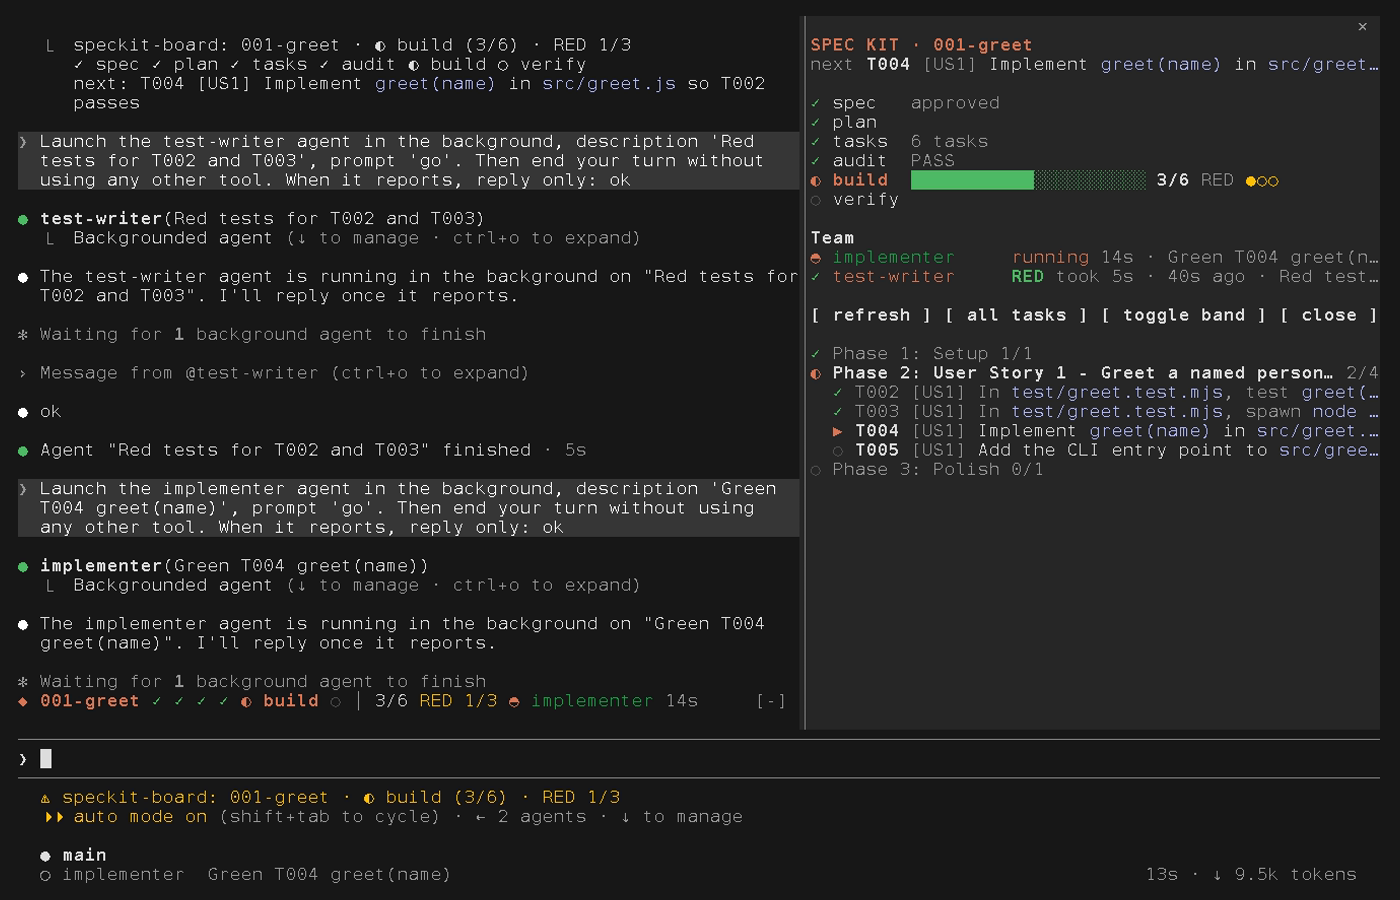
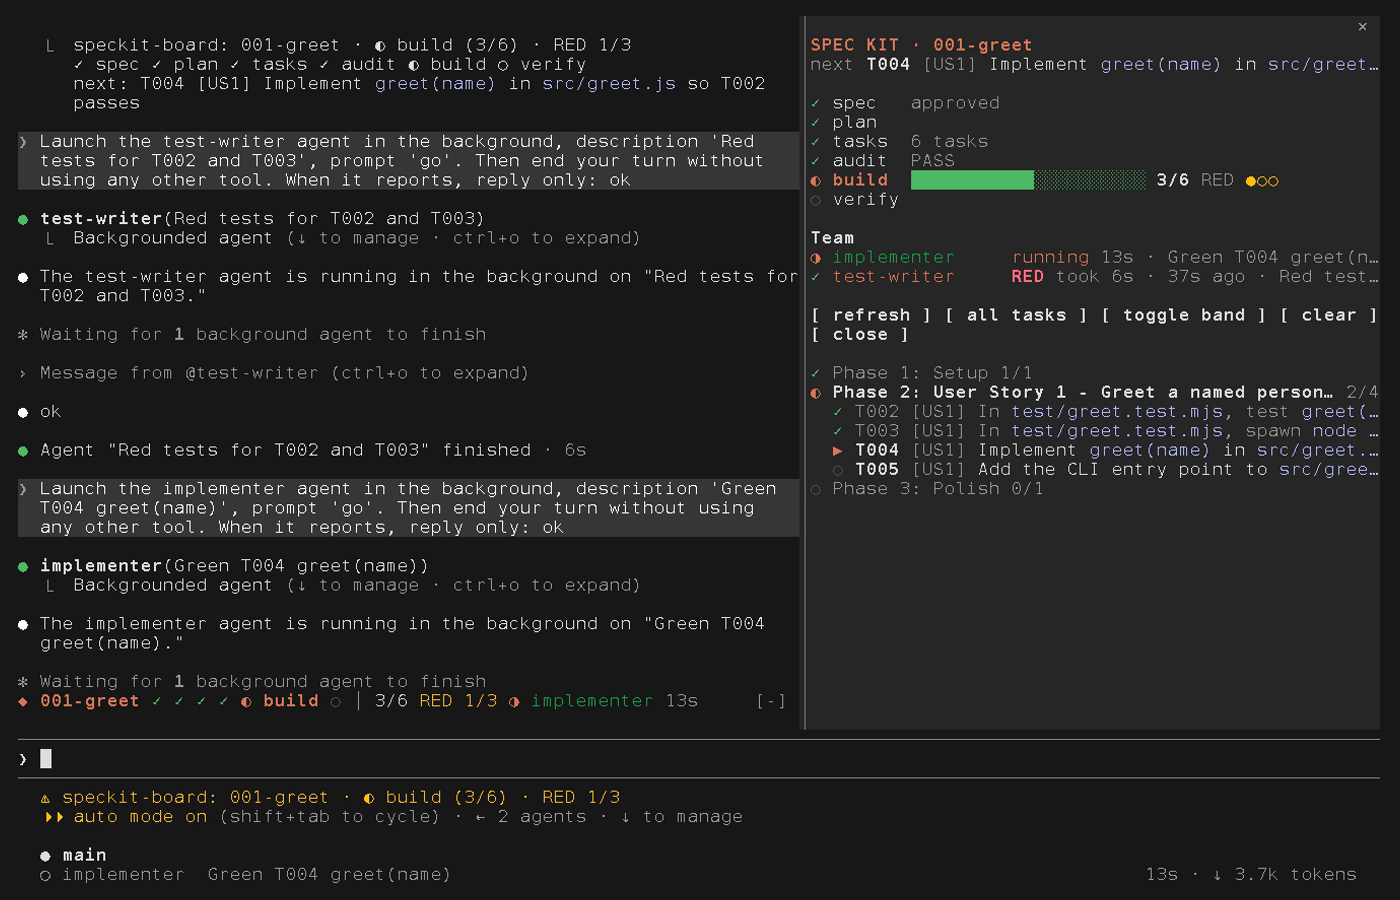
docs(media): re-record board.png with the clear button and a red RED
The screenshot predated two changes to what the board draws: the pane's
[ clear ] button (feature 004, deferred as D5 B) and the word RED drawn
red even when test-writer reports it (#71). Readers comparing their pane
with the README saw neither.

Recorded with record.mjs on Claude Code 2.1.302 and Haiku. The first take
was discarded: its main session said test-writer had sent no report. The
second shows [ clear ] between toggle band and close, and test-writer's
row as a green tick with a red RED. Checked by eye; record.mjs's user-name
check passed.

Closes #82. Closes #84.

diff --git a/README.md b/README.md
@@ -1238,7 +1238,9 @@ and by `test/install.test.mjs` for the board-only install. One end-to-end test l
 so CI sees on Linux, macOS and Windows that Claude Code starts it, that it sets its status line and
 raises its startup toast, and that `/speckit-board status`, `clear` and an unknown argument answer
 at 0 turns ([#19](https://github.com/PIsberg/speckit-agents/issues/19)). `docs/media/board.png`
-predates the `[ clear ]` button ([#84](https://github.com/PIsberg/speckit-agents/issues/84)).
+was recorded on 2026-10-17 (Claude Code 2.1.302): the pane's `[ clear ]` button
+([#84](https://github.com/PIsberg/speckit-agents/issues/84)) and test-writer's `RED` drawn red beside
+its green tick ([#82](https://github.com/PIsberg/speckit-agents/issues/82)).
 
 **Live.** On Windows, interactive and headless, and headless on Linux, 2026-10-08 and 09, and
 headless on Windows on 2026-10-11 for the board-only install and the `clear` argument. On

diff --git a/specs/004-board-clear/quickstart.md b/specs/004-board-clear/quickstart.md
@@ -31,4 +31,4 @@ were run on 2026-10-11 (README.md, "Board mod", "Verified"); `test/e2e.test.mjs`
 were run on 2026-10-12 in an interactive session that vhs drove against a fake API, the two
 spec-auditors scripted stand-ins: `node tools/live-board.mjs` repeats them and prints each result
 (docs/live-results.md, "The board"), and CI's `live-board` job runs it for every pull request. It hashes L6's files with `git hash-object`, which every OS has,
-in place of `sha256sum`. The screenshot is still deferred (#84).
+in place of `sha256sum`. The screenshot was re-recorded on 2026-10-17 (#84).
